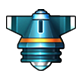
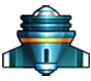
enemy sprite pgn
更改不同级别的敌机png和逻辑操作，合并敌机雪碧图。

diff --git a/canvas-game/planGame/js/allSprite.js b/canvas-game/planGame/js/allSprite.js
@@ -4,7 +4,9 @@
     planHeight = 24,
     missleWidth = 70,
     missleHeight = 70,
-    boomWidth = 60;
+    boomWidth = 60,
+    enemyWidth = 40,
+    enemyHeight = 35;
   //精灵类
   W.Sprite = function(name, painter, behaviors, args) {
     if (name !== undefined) this.name = name;
@@ -43,6 +45,7 @@
     } else if (name === "badPlan") {
       this.isgood = false;
       this.badKind = 1;
+      this.planKind = null;
       this.speed = 2;
       this.rotateAngle = Math.PI;
       this.py = Math.PI / 2;
@@ -365,27 +368,28 @@ var sss = 0;
         } else if (point >= 400 && point < 600) {
           sprite.fullBlood = 300;
           if (random < 0.2) {
-            sprite.badKind = 2;
+            sprite.badKind = 3;
             sprite.fullBlood = 600;
           }
           if (random < 0.1) {
-            sprite.badKind = 3;
+            sprite.badKind = 4;
             sprite.fullBlood = 800;
           }
         } else if (point >= 600) {
           sprite.fullBlood = 600;
           if (random < 0.4) {
-            sprite.badKind = 2;
+            sprite.badKind = 4;
             sprite.fullBlood = 800;
           }
-          if (random < 0.2) {
-            sprite.badKind = 3;
+          if (random < 0.3) {
+            sprite.badKind = 5;
             sprite.fullBlood = 1200;
           }
         }
         sprite.visible = true;
         sprite.blood = sprite.fullBlood;
         sprite.left = canvas.width / 2;
+        sprite.planKind = null;
         sprite.xangle = Math.random() > 0.5 ? -Math.random() * 0.03 : Math.random() * 0.03;
         sprite.top = Math.random() * canvas.height - canvas.height;
       }
@@ -424,26 +428,71 @@ var sss = 0;
   W.badPlanPainter = {
     paint: function(sprite) {
       var img = new Image();
-      img.src = "../planGame/image/ship.png"
+      img.src = "../planGame/images/enemyCopy.png";
       switch (sprite.badKind) {
         case 1:
-          ctx.drawImage(img, 96, 0, planWidth, planWidth, -planWidth / 2, -planHeight / 2, planWidth, planWidth);
+          img.src = "../planGame/image/ship.png"
+          ctx.drawImage(img, 120, 0, planWidth, planWidth, -planWidth / 2, -planHeight  / 2, planWidth, planWidth);
+          sprite.planKind = 0;//机机型号
           break;
 
         case 2:
-          ctx.drawImage(img, 120, 0, planWidth, planWidth, -planWidth / 2, -planHeight / 2, planWidth, planWidth);
+          if(sprite.planKind === 6){
+              ctx.drawImage(img, 200, 0, enemyWidth, enemyWidth, -enemyWidth / 2, -enemyHeight / 2, enemyWidth, enemyWidth);
+              sprite.planKind = 6;
+          }else if(sprite.planKind === 7){
+              ctx.drawImage(img, 240, 0, enemyWidth, enemyWidth, -enemyWidth / 2, -enemyHeight / 2, enemyWidth, enemyWidth);
+              sprite.planKind = 7;
+          }else if(Math.random()<0.5) {
+              ctx.drawImage(img, 200, 0, enemyWidth, enemyWidth, -enemyWidth / 2, -enemyHeight / 2, enemyWidth, enemyWidth);
+              sprite.planKind = 6;
+          }else{
+              ctx.drawImage(img, 240, 0, enemyWidth, enemyWidth, -enemyWidth / 2, -enemyHeight / 2, enemyWidth, enemyWidth);
+              sprite.planKind = 7;
+          }
           break;
 
         case 3:
-          ctx.drawImage(img, 144, 0, planWidth, planWidth, -planWidth / 2, -planHeight / 2, planWidth, planWidth);
-          break;
+            if(sprite.planKind === 2){
+                ctx.drawImage(img, 40, 0, enemyWidth, enemyWidth, -enemyWidth / 2, -enemyHeight / 2, enemyWidth, enemyWidth);
+                sprite.planKind = 2;
+            }else if(sprite.planKind === 4){
+                ctx.drawImage(img, 120, 0, enemyWidth, enemyWidth, -enemyWidth / 2, -enemyHeight / 2, enemyWidth, enemyWidth);
+                sprite.planKind = 4;
+            }else if(Math.random()<0.5) {
+                ctx.drawImage(img, 40, 0, enemyWidth, enemyWidth, -enemyWidth / 2, -enemyHeight / 2, enemyWidth, enemyWidth);
+                sprite.planKind = 2;
+            }else{
+                ctx.drawImage(img, 120, 0, enemyWidth, enemyWidth, -enemyWidth / 2, -enemyHeight / 2, enemyWidth, enemyWidth);
+                sprite.planKind = 4;
+            }
+            break;
+        case 4:
+            if(sprite.planKind === 1){
+                ctx.drawImage(img, 0, 0, enemyWidth, enemyWidth, -enemyWidth / 2, -enemyHeight / 2, enemyWidth, enemyWidth);
+                sprite.planKind = 1;
+            }else if(sprite.planKind === 3){
+                ctx.drawImage(img, 80, 0, enemyWidth, enemyWidth, -enemyWidth / 2, -enemyHeight / 2, enemyWidth, enemyWidth);
+                sprite.planKind = 3;
+            }else if(Math.random()<0.5) {
+                ctx.drawImage(img, 0, 0, enemyWidth, enemyWidth, -enemyWidth / 2, -enemyHeight / 2, enemyWidth, enemyWidth);
+                sprite.planKind = 1;
+            }else{
+                ctx.drawImage(img, 80, 0, enemyWidth, enemyWidth, -enemyWidth / 2, -enemyHeight / 2, enemyWidth, enemyWidth);
+                sprite.planKind = 3;
+            }
+            break;
+        case 5:
+            ctx.drawImage(img, 160, 0, enemyWidth, enemyWidth, -enemyWidth / 2, -enemyHeight / 2, enemyWidth, enemyWidth);
+            sprite.planKind = 5;
+            break;
       }
       //敌机血条
       ctx.strokeStyle = "#FFF";
       ctx.fillStyle = "#F00";
       var bloodHeight = 1;
-      ctx.strokeRect(-planWidth / 2 - 1, planHeight + bloodHeight + 3, planWidth + 2, bloodHeight + 2);
-      ctx.fillRect(planWidth / 2 - planWidth * sprite.blood / sprite.fullBlood, planHeight + bloodHeight + 3, planWidth * sprite.blood / sprite.fullBlood, bloodHeight);
+      ctx.strokeRect(-enemyWidth / 2 +1, planHeight + bloodHeight + 3, enemyWidth + 2, bloodHeight + 2);
+      ctx.fillRect(-enemyWidth / 2 +1, planHeight + bloodHeight + 3, enemyWidth * sprite.blood / sprite.fullBlood, bloodHeight);
     }
   }
 

diff --git a/canvas-game/planGame/js/index.js b/canvas-game/planGame/js/index.js
@@ -232,6 +232,7 @@ var stage = {
 
                         if(bp.blood<=0){//血量小于等于0,敌机阵亡
                             bp.visible = false;
+                            bp.planKind = null;
                             point += bp.badKind;//得分加1
                             boom(bp);
                         }
@@ -286,6 +287,7 @@ var stage = {
                     myplan.visible = false;
                     dieNum++;
                     this.visible = false;
+                    this.planKind = null;
                     boom(this);
                     boom(myplan);
                     stage.myplanReborn(myplan);
@@ -310,7 +312,7 @@ var stage = {
                 foodDate = new Date();
             }else {
                 var nowFoodDate = new Date();
-                if(nowFoodDate-foodDate>1000){
+                if(nowFoodDate-foodDate>5000){
                     var createFood = Math.random()<0.5?true:false;
                     if(createFood&&!eatfood.visible){
                         eatfood.left = Math.random()*canvas.width + 40;

diff --git a/canvas-game/planGame/js/data.js b/canvas-game/planGame/js/data.js
@@ -98,4 +98,13 @@ var huoliCells = [
     {x:120 , y:0 , w:60 , h:60},
     {x:120 , y:0 , w:60 , h:60},
     {x:120 , y:0 , w:60 , h:60}
+];
+var enemyCells = [
+    {x:0 , y:0 , w:91 , h:81},
+    {x:91 , y:0 , w:91 , h:81},
+    {x:182 , y:0 , w:91 , h:81},
+    {x:273 , y:0 , w:91 , h:81},
+    {x:364 , y:0 , w:91 , h:81},
+    {x:455 , y:0 , w:91 , h:81},
+    {x:546 , y:0 , w:91 , h:81}
 ]
